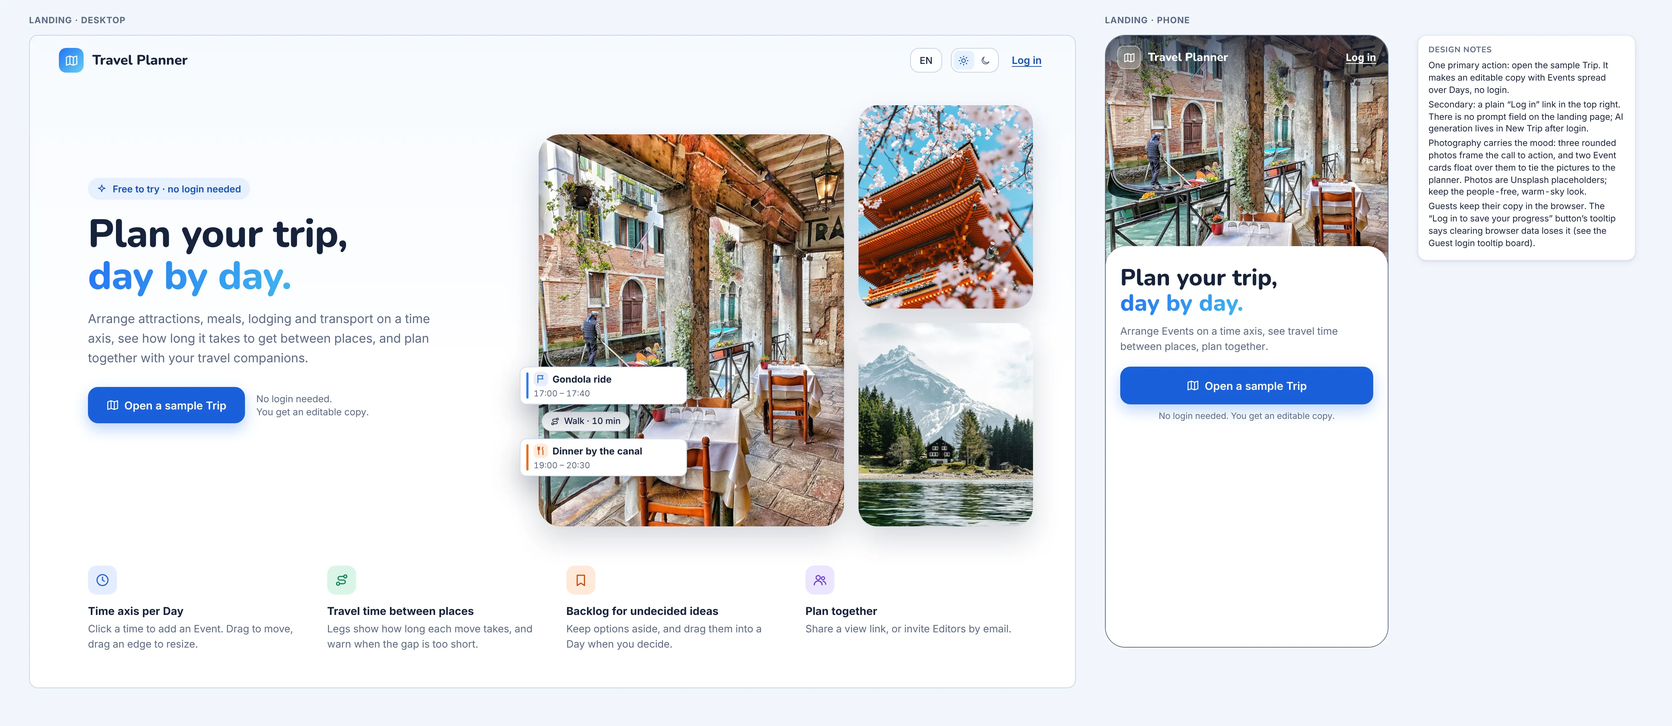
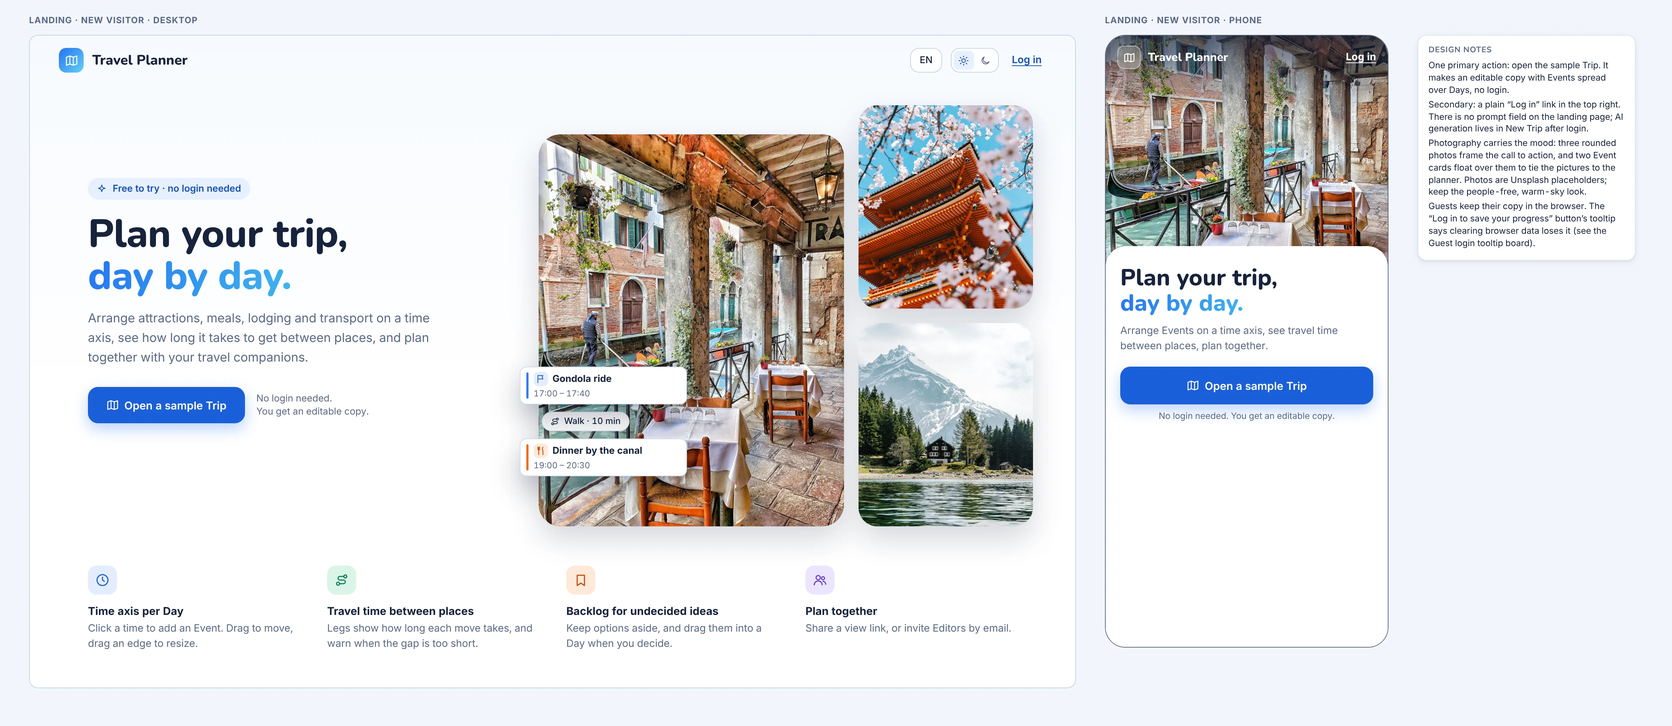
design: landing page variation by identity and trip existence (#16 to 16d)

diff --git a/docs/design/source/LandingGuestTrips.dc.html b/docs/design/source/LandingGuestTrips.dc.html
@@ -1,0 +1,60 @@
+<!doctype html>
+<html lang="en">
+<head>
+<meta charset="utf-8">
+<title>Landing page</title>
+<script src="./support.js"></script>
+<link rel="stylesheet" href="hf.css">
+</head>
+<body>
+<x-dc>
+<helmet>
+<link href="https://fonts.googleapis.com/css2?family=Inter:wght@400;500;600;700&amp;family=Nunito:wght@700;800&amp;family=Noto+Sans+TC:wght@400;500;700&amp;display=swap" rel="stylesheet">
+<style>
+body{margin:0}
+.wfroot{width:2300px;height:1000px;position:relative}
+.d{position:absolute;left:40px;top:48px;width:1440px;height:900px;border:1px solid var(--border2);border-radius:var(--r-lg);overflow:hidden}
+.phw{position:absolute;left:1520px;top:48px;width:390px;height:844px;border:1px solid var(--muted);border-radius:28px;overflow:hidden;background:#fff}
+.sidew{position:absolute;left:1950px;top:48px;width:300px}
+.or{display:flex;align-items:center;gap:10px;color:var(--muted)}
+.or::before,.or::after{content:"";flex:1;border-top:1px solid var(--border)}
+
+</style>
+</helmet>
+<div class="hf wfroot">
+<div class="cap" style="left:40px;top:20px">Landing · guest with Trips · desktop</div><div class="cap" style="left:1520px;top:20px">Landing · guest with Trips · phone</div>
+<section class="d" aria-label="Landing, desktop" style="background:linear-gradient(180deg,#f6faff 0%,#fff 55%)">
+<div style="position:absolute;left:0;right:0;top:0;height:68px;display:flex;align-items:center;gap:12px;padding:0 40px"><span class="logo" style="width:34px;height:34px;border-radius:10px;"><svg class="i" style="width:19px;height:19px" viewBox="0 0 24 24" aria-hidden="true"><path d="M9 4L3 6v14l6-2 6 2 6-2V4l-6 2z"></path><path d="M9 4v14M15 6v14"></path></svg></span><b style="font:800 19px Nunito,Inter,sans-serif">Travel Planner</b><span style="flex:1"></span><button class="btn" style="border-radius:12px;background:rgba(255,255,255,.7)">EN</button><span class="thsw" role="group" aria-label="Theme" style="border-radius:12px;background:rgba(255,255,255,.7)"><button class="on" aria-label="Light theme" aria-pressed="true"><svg class="i" viewBox="0 0 24 24" aria-hidden="true"><circle cx="12" cy="12" r="4"></circle><path d="M12 2v2M12 20v2M4.9 4.9l1.4 1.4M17.7 17.7l1.4 1.4M2 12h2M20 12h2M4.9 19.1l1.4-1.4M17.7 6.3l1.4-1.4"></path></svg></button><button aria-label="Dark theme" aria-pressed="false"><svg class="i" viewBox="0 0 24 24" aria-hidden="true"><path d="M20 14.5A8 8 0 1 1 9.5 4a6.5 6.5 0 0 0 10.5 10.5z"></path></svg></button></span><a href="#" style="font-weight:600;color:var(--pri-ink);padding:0 6px;font-size:14px;text-decoration:underline;text-underline-offset:3px">Log in</a></div><div style="position:absolute;left:80px;top:196px;width:560px">
+<span style="display:inline-flex;align-items:center;gap:8px;height:30px;padding:0 12px;border-radius:15px;background:var(--pri-tint);color:var(--pri-ink);font-size:13px;font-weight:600"><svg class="i" style="width:14px;height:14px" viewBox="0 0 24 24" aria-hidden="true"><path d="M12 3l2 6 6 2-6 2-2 6-2-6-6-2 6-2z"></path></svg>Welcome back</span>
+<h1 style="font:800 54px/1.08 Nunito,Inter,'Noto Sans TC',sans-serif;letter-spacing:-.01em;margin:18px 0 16px;color:var(--text)">Plan your trip,<br><span style="background:linear-gradient(120deg,#2373f4,#3fb6f0);-webkit-background-clip:text;background-clip:text;color:transparent">day by day.</span></h1>
+<p style="font-size:17px;line-height:1.6;color:var(--muted);margin:0 0 26px;max-width:500px">Arrange attractions, meals, lodging and transport on a time axis, see how long it takes to get between places, and plan together with your travel companions.</p>
+<div style="display:flex;align-items:center;gap:16px"><button class="btn pri" style="height:50px;font-size:15px;padding:0 24px;border-radius:14px;box-shadow:0 8px 20px rgba(35,115,244,.32)"><svg class="i" style="width:18px;height:18px" viewBox="0 0 24 24" aria-hidden="true"><path d="M9 4L3 6v14l6-2 6 2 6-2V4l-6 2z"></path><path d="M9 4v14M15 6v14"></path></svg>Continue</button><a href="#" style="font-weight:600;color:var(--pri-ink);font-size:14px;text-decoration:underline;text-underline-offset:3px">Open a sample Trip</a></div><div style="display:flex;align-items:center;gap:8px;margin-top:18px;color:var(--muted);font-size:13px"><svg class="i" style="width:15px;height:15px;flex:none" viewBox="0 0 24 24" aria-hidden="true"><circle cx="12" cy="12" r="9"></circle><path d="M12 11v5M12 8h.01"></path></svg>Your Trips are only saved in this browser.</div>
+</div>
+<div style="position:absolute;left:700px;top:96px;width:680px;height:600px">
+<img src="assets/venice.jpg" alt="" style="position:absolute;left:0px;top:40px;width:420px;height:540px;object-fit:cover;object-position:50% 60%;border-radius:30px;box-shadow:0 18px 40px rgba(22,34,59,.18);"><img src="assets/landing-top-right.jpg" alt="" style="position: absolute; left: 440px; top: 0px; width: 240px; height: 280px; object-fit: cover; border-radius: 26px; box-shadow: 0 18px 40px rgba(22,34,59,.18)"><img src="assets/swiss-lake.jpg" alt="" style="position:absolute;left:440px;top:300px;width:240px;height:280px;object-fit:cover;object-position:45% 50%;border-radius:26px;box-shadow:0 18px 40px rgba(22,34,59,.18);">
+<div style="position:absolute;left:-26px;top:360px;width:230px;display:flex;flex-direction:column;gap:10px"><div class="ev k-a" style="position:relative;left:auto;right:auto;min-height:0px;box-shadow:var(--sh-lift)"><span class="t"><svg class="i" viewBox="0 0 24 24" aria-hidden="true"><path d="M5 21V4"></path><path d="M5 4h12l-2 4 2 4H5"></path></svg><span>Gondola ride</span></span><span class="s">17:00 – 17:40</span></div><div style="padding-left:30px"><div style="display:inline-flex;align-items:center;gap:6px;background:#fff;border:1px solid var(--border);border-radius:999px;padding:4px 11px;font-size:12px;font-weight:500;box-shadow:0 4px 12px rgba(22,34,59,.12)"><svg class="i" style="width:13px;height:13px" viewBox="0 0 24 24" aria-hidden="true"><circle cx="6" cy="18" r="2.5"></circle><circle cx="18" cy="6" r="2.5"></circle><path d="M8.5 18H15a3 3 0 0 0 0-6H9a3 3 0 0 1 0-6h6.5"></path></svg>Walk · 10 min</div></div><div class="ev k-m" style="position:relative;left:auto;right:auto;min-height:0px;box-shadow:var(--sh-lift)"><span class="t"><svg class="i" viewBox="0 0 24 24" aria-hidden="true"><path d="M7 3v8M5 3v5a2 2 0 0 0 4 0V3M7 11v10M17 3c-2 2-2 6 0 8v10"></path></svg><span>Dinner by the canal</span></span><span class="s">19:00 – 20:30</span></div></div>
+<div style="position:absolute;left:300px;top:0;width:150px;height:150px;border-radius:50%;background:radial-gradient(circle,rgba(101,208,244,.35),transparent 70%);z-index:-1"></div>
+</div>
+<div style="position:absolute;left:80px;top:730px;width:1280px;display:flex;gap:36px"><div style="flex:1"><span style="width:40px;height:40px;border-radius:12px;background:var(--a-tint);color:var(--a-ink);display:flex;align-items:center;justify-content:center;margin-bottom:12px"><svg class="i" style="width:20px;height:20px" viewBox="0 0 24 24" aria-hidden="true"><circle cx="12" cy="12" r="9"></circle><path d="M12 7v5l3 2"></path></svg></span><b style="display:block;font-size:15px;margin-bottom:3px">Time axis per Day</b><span style="color:var(--muted);font-size:14px;line-height:1.5">Click a time to add an Event. Drag to move, drag an edge to resize.</span></div><div style="flex:1"><span style="width:40px;height:40px;border-radius:12px;background:var(--t-tint);color:var(--t-ink);display:flex;align-items:center;justify-content:center;margin-bottom:12px"><svg class="i" style="width:20px;height:20px" viewBox="0 0 24 24" aria-hidden="true"><circle cx="6" cy="18" r="2.5"></circle><circle cx="18" cy="6" r="2.5"></circle><path d="M8.5 18H15a3 3 0 0 0 0-6H9a3 3 0 0 1 0-6h6.5"></path></svg></span><b style="display:block;font-size:15px;margin-bottom:3px">Travel time between places</b><span style="color:var(--muted);font-size:14px;line-height:1.5">Legs show how long each move takes, and warn when the gap is too short.</span></div><div style="flex:1"><span style="width:40px;height:40px;border-radius:12px;background:var(--m-tint);color:var(--m-ink);display:flex;align-items:center;justify-content:center;margin-bottom:12px"><svg class="i" style="width:20px;height:20px" viewBox="0 0 24 24" aria-hidden="true"><path d="M6 4h12v17l-6-4-6 4z"></path></svg></span><b style="display:block;font-size:15px;margin-bottom:3px">Backlog for undecided ideas</b><span style="color:var(--muted);font-size:14px;line-height:1.5">Keep options aside, and drag them into a Day when you decide.</span></div><div style="flex:1"><span style="width:40px;height:40px;border-radius:12px;background:var(--l-tint);color:var(--l-ink);display:flex;align-items:center;justify-content:center;margin-bottom:12px"><svg class="i" style="width:20px;height:20px" viewBox="0 0 24 24" aria-hidden="true"><circle cx="9" cy="8" r="3.5"></circle><path d="M2.5 20a6.5 6.5 0 0 1 13 0"></path><circle cx="17" cy="9" r="2.5"></circle><path d="M17 14a5 5 0 0 1 4.5 5"></path></svg></span><b style="display:block;font-size:15px;margin-bottom:3px">Plan together</b><span style="color:var(--muted);font-size:14px;line-height:1.5">Share a view link, or invite Editors by email.</span></div></div>
+</section>
+<section class="phw" aria-label="Landing, phone">
+<img src="assets/venice.jpg" alt="" style="position:absolute;left:0px;top:0px;width:390px;height:330px;object-fit:cover;object-position:50% 55%;border-radius:0px;">
+<div style="position:absolute;left:0;top:0;width:390px;height:330px;background:linear-gradient(180deg,rgba(22,34,59,.7),transparent 32%,transparent 70%,rgba(255,255,255,.0))"></div>
+<div style="position:absolute;left:16px;right:16px;top:14px;display:flex;align-items:center;gap:10px;color:#fff"><span class="logo" style="width:32px;height:32px;border-radius:9px;background:rgba(255,255,255,.22);backdrop-filter:blur(6px);border:1px solid rgba(255,255,255,.5)"><svg class="i" style="width:17px;height:17px" viewBox="0 0 24 24" aria-hidden="true"><path d="M9 4L3 6v14l6-2 6 2 6-2V4l-6 2z"></path><path d="M9 4v14M15 6v14"></path></svg></span><b style="font:800 16px Nunito,Inter,sans-serif">Travel Planner</b><span style="flex:1"></span><a href="#" style="font-weight:700;color:#fff;font-size:14px;text-decoration:underline;text-underline-offset:3px">Log in</a></div>
+<div style="position:absolute;left:0;right:0;top:290px;height:554px;background:#fff;border-radius:28px 28px 0 0;padding:26px 20px 0">
+<h1 style="font:800 32px/1.1 Nunito,Inter,sans-serif;margin:0 0 10px">Plan your trip,<br><span style="background:linear-gradient(120deg,#2373f4,#3fb6f0);-webkit-background-clip:text;background-clip:text;color:transparent">day by day.</span></h1>
+<p style="color:var(--muted);line-height:1.5;margin:0 0 18px;font-size:14px">Arrange Events on a time axis, see travel time between places, plan together.</p>
+<button class="btn pri" style="width:100%;height:52px;justify-content:center;border-radius:14px;font-size:15px;box-shadow:0 8px 20px rgba(35,115,244,.3)"><svg class="i" style="width:18px;height:18px" viewBox="0 0 24 24" aria-hidden="true"><path d="M9 4L3 6v14l6-2 6 2 6-2V4l-6 2z"></path><path d="M9 4v14M15 6v14"></path></svg>Continue</button>
+<div style="text-align:center;margin-top:14px"><a href="#" style="font-weight:600;color:var(--pri-ink);font-size:14px;text-decoration:underline;text-underline-offset:3px">Open a sample Trip</a></div>
+<div class="muted" style="text-align:center;font-size:12px;margin-top:10px">Your Trips are only saved in this browser.</div>
+</div></section>
+<aside class="mc sidew"><h4>Notes for review · guest with Trips</h4><div>The guest has no login but already has a Trip in this browser (a guest id exists). Primary action becomes “Continue”, which opens the most recently opened Trip.</div><div>Secondary: “Open a sample Trip” as a text link. If the sample copy already exists, it opens that copy instead of making another (<code>trips.sampleOf</code> plus a unique index on <code>(ownerId, sampleOf)</code>).</div><div>The small line under the actions says Trips live only in this browser. “Log in” stays in the top right.</div><div>Photography carries the mood: three rounded photos frame the call to action, and two Event cards float over them to tie the pictures to the planner. Photos are Unsplash placeholders; keep the people-free, warm-sky look.</div><div>Guests keep their copy in the browser. The “Log in to save your progress” button’s tooltip says clearing browser data loses it (see the Guest login tooltip board).</div></aside>
+</div>
+</x-dc>
+<script type="text/x-dc" data-dc-script data-props='{"$preview":{"width":2300,"height":1000}}'>
+class Component extends DCLogic {
+  renderVals() { return {}; }
+}
+</script>
+</body>
+</html>

diff --git a/docs/design/source/LandingLoggedIn.dc.html b/docs/design/source/LandingLoggedIn.dc.html
@@ -1,0 +1,60 @@
+<!doctype html>
+<html lang="en">
+<head>
+<meta charset="utf-8">
+<title>Landing page</title>
+<script src="./support.js"></script>
+<link rel="stylesheet" href="hf.css">
+</head>
+<body>
+<x-dc>
+<helmet>
+<link href="https://fonts.googleapis.com/css2?family=Inter:wght@400;500;600;700&amp;family=Nunito:wght@700;800&amp;family=Noto+Sans+TC:wght@400;500;700&amp;display=swap" rel="stylesheet">
+<style>
+body{margin:0}
+.acct{width:36px;height:36px;border-radius:50%;background:var(--a-tint);color:var(--a-ink);display:inline-flex;align-items:center;justify-content:center;font-weight:700;font-size:14px;border:1px solid var(--border2);flex:none;padding:0}
+.wfroot{width:2300px;height:1000px;position:relative}
+.d{position:absolute;left:40px;top:48px;width:1440px;height:900px;border:1px solid var(--border2);border-radius:var(--r-lg);overflow:hidden}
+.phw{position:absolute;left:1520px;top:48px;width:390px;height:844px;border:1px solid var(--muted);border-radius:28px;overflow:hidden;background:#fff}
+.sidew{position:absolute;left:1950px;top:48px;width:300px}
+.or{display:flex;align-items:center;gap:10px;color:var(--muted)}
+.or::before,.or::after{content:"";flex:1;border-top:1px solid var(--border)}
+
+</style>
+</helmet>
+<div class="hf wfroot">
+<div class="cap" style="left:40px;top:20px">Landing · logged in · desktop</div><div class="cap" style="left:1520px;top:20px">Landing · logged in · phone</div>
+<section class="d" aria-label="Landing, desktop" style="background:linear-gradient(180deg,#f6faff 0%,#fff 55%)">
+<div style="position:absolute;left:0;right:0;top:0;height:68px;display:flex;align-items:center;gap:12px;padding:0 40px"><span class="logo" style="width:34px;height:34px;border-radius:10px;"><svg class="i" style="width:19px;height:19px" viewBox="0 0 24 24" aria-hidden="true"><path d="M9 4L3 6v14l6-2 6 2 6-2V4l-6 2z"></path><path d="M9 4v14M15 6v14"></path></svg></span><b style="font:800 19px Nunito,Inter,sans-serif">Travel Planner</b><span style="flex:1"></span><button class="btn" style="border-radius:12px;background:rgba(255,255,255,.7)">EN</button><span class="thsw" role="group" aria-label="Theme" style="border-radius:12px;background:rgba(255,255,255,.7)"><button class="on" aria-label="Light theme" aria-pressed="true"><svg class="i" viewBox="0 0 24 24" aria-hidden="true"><circle cx="12" cy="12" r="4"></circle><path d="M12 2v2M12 20v2M4.9 4.9l1.4 1.4M17.7 17.7l1.4 1.4M2 12h2M20 12h2M4.9 19.1l1.4-1.4M17.7 6.3l1.4-1.4"></path></svg></button><button aria-label="Dark theme" aria-pressed="false"><svg class="i" viewBox="0 0 24 24" aria-hidden="true"><path d="M20 14.5A8 8 0 1 1 9.5 4a6.5 6.5 0 0 0 10.5 10.5z"></path></svg></button></span><button class="acct" aria-haspopup="menu" aria-expanded="false" aria-label="Account menu, lena@example.com" style="margin-left:4px">L</button></div><div style="position:absolute;left:80px;top:196px;width:560px">
+<span style="display:inline-flex;align-items:center;gap:8px;height:30px;padding:0 12px;border-radius:15px;background:var(--pri-tint);color:var(--pri-ink);font-size:13px;font-weight:600"><svg class="i" style="width:14px;height:14px" viewBox="0 0 24 24" aria-hidden="true"><path d="M12 3l2 6 6 2-6 2-2 6-2-6-6-2 6-2z"></path></svg>Welcome back</span>
+<h1 style="font:800 54px/1.08 Nunito,Inter,'Noto Sans TC',sans-serif;letter-spacing:-.01em;margin:18px 0 16px;color:var(--text)">Plan your trip,<br><span style="background:linear-gradient(120deg,#2373f4,#3fb6f0);-webkit-background-clip:text;background-clip:text;color:transparent">day by day.</span></h1>
+<p style="font-size:17px;line-height:1.6;color:var(--muted);margin:0 0 26px;max-width:500px">Arrange attractions, meals, lodging and transport on a time axis, see how long it takes to get between places, and plan together with your travel companions.</p>
+<div style="display:flex;align-items:center;gap:16px"><button class="btn pri" style="height:50px;font-size:15px;padding:0 24px;border-radius:14px;box-shadow:0 8px 20px rgba(35,115,244,.32)"><svg class="i" style="width:18px;height:18px" viewBox="0 0 24 24" aria-hidden="true"><path d="M9 4L3 6v14l6-2 6 2 6-2V4l-6 2z"></path><path d="M9 4v14M15 6v14"></path></svg>Continue</button><a href="#" style="font-weight:600;color:var(--pri-ink);font-size:14px;text-decoration:underline;text-underline-offset:3px">Open a sample Trip</a></div>
+</div>
+<div style="position:absolute;left:700px;top:96px;width:680px;height:600px">
+<img src="assets/venice.jpg" alt="" style="position:absolute;left:0px;top:40px;width:420px;height:540px;object-fit:cover;object-position:50% 60%;border-radius:30px;box-shadow:0 18px 40px rgba(22,34,59,.18);"><img src="assets/landing-top-right.jpg" alt="" style="position: absolute; left: 440px; top: 0px; width: 240px; height: 280px; object-fit: cover; border-radius: 26px; box-shadow: 0 18px 40px rgba(22,34,59,.18)"><img src="assets/swiss-lake.jpg" alt="" style="position:absolute;left:440px;top:300px;width:240px;height:280px;object-fit:cover;object-position:45% 50%;border-radius:26px;box-shadow:0 18px 40px rgba(22,34,59,.18);">
+<div style="position:absolute;left:-26px;top:360px;width:230px;display:flex;flex-direction:column;gap:10px"><div class="ev k-a" style="position:relative;left:auto;right:auto;min-height:0px;box-shadow:var(--sh-lift)"><span class="t"><svg class="i" viewBox="0 0 24 24" aria-hidden="true"><path d="M5 21V4"></path><path d="M5 4h12l-2 4 2 4H5"></path></svg><span>Gondola ride</span></span><span class="s">17:00 – 17:40</span></div><div style="padding-left:30px"><div style="display:inline-flex;align-items:center;gap:6px;background:#fff;border:1px solid var(--border);border-radius:999px;padding:4px 11px;font-size:12px;font-weight:500;box-shadow:0 4px 12px rgba(22,34,59,.12)"><svg class="i" style="width:13px;height:13px" viewBox="0 0 24 24" aria-hidden="true"><circle cx="6" cy="18" r="2.5"></circle><circle cx="18" cy="6" r="2.5"></circle><path d="M8.5 18H15a3 3 0 0 0 0-6H9a3 3 0 0 1 0-6h6.5"></path></svg>Walk · 10 min</div></div><div class="ev k-m" style="position:relative;left:auto;right:auto;min-height:0px;box-shadow:var(--sh-lift)"><span class="t"><svg class="i" viewBox="0 0 24 24" aria-hidden="true"><path d="M7 3v8M5 3v5a2 2 0 0 0 4 0V3M7 11v10M17 3c-2 2-2 6 0 8v10"></path></svg><span>Dinner by the canal</span></span><span class="s">19:00 – 20:30</span></div></div>
+<div style="position:absolute;left:300px;top:0;width:150px;height:150px;border-radius:50%;background:radial-gradient(circle,rgba(101,208,244,.35),transparent 70%);z-index:-1"></div>
+</div>
+<div style="position:absolute;left:80px;top:730px;width:1280px;display:flex;gap:36px"><div style="flex:1"><span style="width:40px;height:40px;border-radius:12px;background:var(--a-tint);color:var(--a-ink);display:flex;align-items:center;justify-content:center;margin-bottom:12px"><svg class="i" style="width:20px;height:20px" viewBox="0 0 24 24" aria-hidden="true"><circle cx="12" cy="12" r="9"></circle><path d="M12 7v5l3 2"></path></svg></span><b style="display:block;font-size:15px;margin-bottom:3px">Time axis per Day</b><span style="color:var(--muted);font-size:14px;line-height:1.5">Click a time to add an Event. Drag to move, drag an edge to resize.</span></div><div style="flex:1"><span style="width:40px;height:40px;border-radius:12px;background:var(--t-tint);color:var(--t-ink);display:flex;align-items:center;justify-content:center;margin-bottom:12px"><svg class="i" style="width:20px;height:20px" viewBox="0 0 24 24" aria-hidden="true"><circle cx="6" cy="18" r="2.5"></circle><circle cx="18" cy="6" r="2.5"></circle><path d="M8.5 18H15a3 3 0 0 0 0-6H9a3 3 0 0 1 0-6h6.5"></path></svg></span><b style="display:block;font-size:15px;margin-bottom:3px">Travel time between places</b><span style="color:var(--muted);font-size:14px;line-height:1.5">Legs show how long each move takes, and warn when the gap is too short.</span></div><div style="flex:1"><span style="width:40px;height:40px;border-radius:12px;background:var(--m-tint);color:var(--m-ink);display:flex;align-items:center;justify-content:center;margin-bottom:12px"><svg class="i" style="width:20px;height:20px" viewBox="0 0 24 24" aria-hidden="true"><path d="M6 4h12v17l-6-4-6 4z"></path></svg></span><b style="display:block;font-size:15px;margin-bottom:3px">Backlog for undecided ideas</b><span style="color:var(--muted);font-size:14px;line-height:1.5">Keep options aside, and drag them into a Day when you decide.</span></div><div style="flex:1"><span style="width:40px;height:40px;border-radius:12px;background:var(--l-tint);color:var(--l-ink);display:flex;align-items:center;justify-content:center;margin-bottom:12px"><svg class="i" style="width:20px;height:20px" viewBox="0 0 24 24" aria-hidden="true"><circle cx="9" cy="8" r="3.5"></circle><path d="M2.5 20a6.5 6.5 0 0 1 13 0"></path><circle cx="17" cy="9" r="2.5"></circle><path d="M17 14a5 5 0 0 1 4.5 5"></path></svg></span><b style="display:block;font-size:15px;margin-bottom:3px">Plan together</b><span style="color:var(--muted);font-size:14px;line-height:1.5">Share a view link, or invite Editors by email.</span></div></div>
+</section>
+<section class="phw" aria-label="Landing, phone">
+<img src="assets/venice.jpg" alt="" style="position:absolute;left:0px;top:0px;width:390px;height:330px;object-fit:cover;object-position:50% 55%;border-radius:0px;">
+<div style="position:absolute;left:0;top:0;width:390px;height:330px;background:linear-gradient(180deg,rgba(22,34,59,.7),transparent 32%,transparent 70%,rgba(255,255,255,.0))"></div>
+<div style="position:absolute;left:16px;right:16px;top:14px;display:flex;align-items:center;gap:10px;color:#fff"><span class="logo" style="width:32px;height:32px;border-radius:9px;background:rgba(255,255,255,.22);backdrop-filter:blur(6px);border:1px solid rgba(255,255,255,.5)"><svg class="i" style="width:17px;height:17px" viewBox="0 0 24 24" aria-hidden="true"><path d="M9 4L3 6v14l6-2 6 2 6-2V4l-6 2z"></path><path d="M9 4v14M15 6v14"></path></svg></span><b style="font:800 16px Nunito,Inter,sans-serif">Travel Planner</b><span style="flex:1"></span><button class="acct" aria-haspopup="menu" aria-expanded="false" aria-label="Account menu, lena@example.com" style="width:34px;height:34px;background:rgba(255,255,255,.92);border-color:rgba(255,255,255,.6)">L</button></div>
+<div style="position:absolute;left:0;right:0;top:290px;height:554px;background:#fff;border-radius:28px 28px 0 0;padding:26px 20px 0">
+<h1 style="font:800 32px/1.1 Nunito,Inter,sans-serif;margin:0 0 10px">Plan your trip,<br><span style="background:linear-gradient(120deg,#2373f4,#3fb6f0);-webkit-background-clip:text;background-clip:text;color:transparent">day by day.</span></h1>
+<p style="color:var(--muted);line-height:1.5;margin:0 0 18px;font-size:14px">Arrange Events on a time axis, see travel time between places, plan together.</p>
+<button class="btn pri" style="width:100%;height:52px;justify-content:center;border-radius:14px;font-size:15px;box-shadow:0 8px 20px rgba(35,115,244,.3)"><svg class="i" style="width:18px;height:18px" viewBox="0 0 24 24" aria-hidden="true"><path d="M9 4L3 6v14l6-2 6 2 6-2V4l-6 2z"></path><path d="M9 4v14M15 6v14"></path></svg>Continue</button>
+<div style="text-align:center;margin-top:14px"><a href="#" style="font-weight:600;color:var(--pri-ink);font-size:14px;text-decoration:underline;text-underline-offset:3px">Open a sample Trip</a></div>
+</div></section>
+<aside class="mc sidew"><h4>Notes for review · logged in</h4><div>Logged in with at least one Trip. Primary action is “Continue”, which opens the most recently opened Trip.</div><div>Secondary: “Open a sample Trip” as a text link. If the sample copy already exists, it opens that copy (<code>trips.sampleOf</code> plus a unique index on <code>(ownerId, sampleOf)</code>).</div><div>The “Log in” link is replaced by the avatar (Account menu) in the top right. No “only saved in this browser” line: Trips are saved to the account.</div><div>Photography carries the mood: three rounded photos frame the call to action, and two Event cards float over them to tie the pictures to the planner. Photos are Unsplash placeholders; keep the people-free, warm-sky look.</div></aside>
+</div>
+</x-dc>
+<script type="text/x-dc" data-dc-script data-props='{"$preview":{"width":2300,"height":1000}}'>
+class Component extends DCLogic {
+  renderVals() { return {}; }
+}
+</script>
+</body>
+</html>

diff --git a/docs/design/source/LandingLoggedInEmpty.dc.html b/docs/design/source/LandingLoggedInEmpty.dc.html
@@ -1,0 +1,60 @@
+<!doctype html>
+<html lang="en">
+<head>
+<meta charset="utf-8">
+<title>Landing page</title>
+<script src="./support.js"></script>
+<link rel="stylesheet" href="hf.css">
+</head>
+<body>
+<x-dc>
+<helmet>
+<link href="https://fonts.googleapis.com/css2?family=Inter:wght@400;500;600;700&amp;family=Nunito:wght@700;800&amp;family=Noto+Sans+TC:wght@400;500;700&amp;display=swap" rel="stylesheet">
+<style>
+body{margin:0}
+.acct{width:36px;height:36px;border-radius:50%;background:var(--a-tint);color:var(--a-ink);display:inline-flex;align-items:center;justify-content:center;font-weight:700;font-size:14px;border:1px solid var(--border2);flex:none;padding:0}
+.wfroot{width:2300px;height:1000px;position:relative}
+.d{position:absolute;left:40px;top:48px;width:1440px;height:900px;border:1px solid var(--border2);border-radius:var(--r-lg);overflow:hidden}
+.phw{position:absolute;left:1520px;top:48px;width:390px;height:844px;border:1px solid var(--muted);border-radius:28px;overflow:hidden;background:#fff}
+.sidew{position:absolute;left:1950px;top:48px;width:300px}
+.or{display:flex;align-items:center;gap:10px;color:var(--muted)}
+.or::before,.or::after{content:"";flex:1;border-top:1px solid var(--border)}
+
+</style>
+</helmet>
+<div class="hf wfroot">
+<div class="cap" style="left:40px;top:20px">Landing · logged in, no Trips · desktop</div><div class="cap" style="left:1520px;top:20px">Landing · logged in, no Trips · phone</div>
+<section class="d" aria-label="Landing, desktop" style="background:linear-gradient(180deg,#f6faff 0%,#fff 55%)">
+<div style="position:absolute;left:0;right:0;top:0;height:68px;display:flex;align-items:center;gap:12px;padding:0 40px"><span class="logo" style="width:34px;height:34px;border-radius:10px;"><svg class="i" style="width:19px;height:19px" viewBox="0 0 24 24" aria-hidden="true"><path d="M9 4L3 6v14l6-2 6 2 6-2V4l-6 2z"></path><path d="M9 4v14M15 6v14"></path></svg></span><b style="font:800 19px Nunito,Inter,sans-serif">Travel Planner</b><span style="flex:1"></span><button class="btn" style="border-radius:12px;background:rgba(255,255,255,.7)">EN</button><span class="thsw" role="group" aria-label="Theme" style="border-radius:12px;background:rgba(255,255,255,.7)"><button class="on" aria-label="Light theme" aria-pressed="true"><svg class="i" viewBox="0 0 24 24" aria-hidden="true"><circle cx="12" cy="12" r="4"></circle><path d="M12 2v2M12 20v2M4.9 4.9l1.4 1.4M17.7 17.7l1.4 1.4M2 12h2M20 12h2M4.9 19.1l1.4-1.4M17.7 6.3l1.4-1.4"></path></svg></button><button aria-label="Dark theme" aria-pressed="false"><svg class="i" viewBox="0 0 24 24" aria-hidden="true"><path d="M20 14.5A8 8 0 1 1 9.5 4a6.5 6.5 0 0 0 10.5 10.5z"></path></svg></button></span><button class="acct" aria-haspopup="menu" aria-expanded="false" aria-label="Account menu, lena@example.com" style="margin-left:4px">L</button></div><div style="position:absolute;left:80px;top:196px;width:560px">
+<span style="display:inline-flex;align-items:center;gap:8px;height:30px;padding:0 12px;border-radius:15px;background:var(--pri-tint);color:var(--pri-ink);font-size:13px;font-weight:600"><svg class="i" style="width:14px;height:14px" viewBox="0 0 24 24" aria-hidden="true"><path d="M12 3l2 6 6 2-6 2-2 6-2-6-6-2 6-2z"></path></svg>Start with a sample</span>
+<h1 style="font:800 54px/1.08 Nunito,Inter,'Noto Sans TC',sans-serif;letter-spacing:-.01em;margin:18px 0 16px;color:var(--text)">Plan your trip,<br><span style="background:linear-gradient(120deg,#2373f4,#3fb6f0);-webkit-background-clip:text;background-clip:text;color:transparent">day by day.</span></h1>
+<p style="font-size:17px;line-height:1.6;color:var(--muted);margin:0 0 26px;max-width:500px">Arrange attractions, meals, lodging and transport on a time axis, see how long it takes to get between places, and plan together with your travel companions.</p>
+<div style="display:flex;align-items:center;gap:16px"><button class="btn pri" style="height:50px;font-size:15px;padding:0 24px;border-radius:14px;box-shadow:0 8px 20px rgba(35,115,244,.32)"><svg class="i" style="width:18px;height:18px" viewBox="0 0 24 24" aria-hidden="true"><path d="M9 4L3 6v14l6-2 6 2 6-2V4l-6 2z"></path><path d="M9 4v14M15 6v14"></path></svg>Open a sample Trip</button><span style="color:var(--muted);font-size:13px">You get an editable copy<br>in your Trips.</span></div>
+</div>
+<div style="position:absolute;left:700px;top:96px;width:680px;height:600px">
+<img src="assets/venice.jpg" alt="" style="position:absolute;left:0px;top:40px;width:420px;height:540px;object-fit:cover;object-position:50% 60%;border-radius:30px;box-shadow:0 18px 40px rgba(22,34,59,.18);"><img src="assets/landing-top-right.jpg" alt="" style="position: absolute; left: 440px; top: 0px; width: 240px; height: 280px; object-fit: cover; border-radius: 26px; box-shadow: 0 18px 40px rgba(22,34,59,.18)"><img src="assets/swiss-lake.jpg" alt="" style="position:absolute;left:440px;top:300px;width:240px;height:280px;object-fit:cover;object-position:45% 50%;border-radius:26px;box-shadow:0 18px 40px rgba(22,34,59,.18);">
+<div style="position:absolute;left:-26px;top:360px;width:230px;display:flex;flex-direction:column;gap:10px"><div class="ev k-a" style="position:relative;left:auto;right:auto;min-height:0px;box-shadow:var(--sh-lift)"><span class="t"><svg class="i" viewBox="0 0 24 24" aria-hidden="true"><path d="M5 21V4"></path><path d="M5 4h12l-2 4 2 4H5"></path></svg><span>Gondola ride</span></span><span class="s">17:00 – 17:40</span></div><div style="padding-left:30px"><div style="display:inline-flex;align-items:center;gap:6px;background:#fff;border:1px solid var(--border);border-radius:999px;padding:4px 11px;font-size:12px;font-weight:500;box-shadow:0 4px 12px rgba(22,34,59,.12)"><svg class="i" style="width:13px;height:13px" viewBox="0 0 24 24" aria-hidden="true"><circle cx="6" cy="18" r="2.5"></circle><circle cx="18" cy="6" r="2.5"></circle><path d="M8.5 18H15a3 3 0 0 0 0-6H9a3 3 0 0 1 0-6h6.5"></path></svg>Walk · 10 min</div></div><div class="ev k-m" style="position:relative;left:auto;right:auto;min-height:0px;box-shadow:var(--sh-lift)"><span class="t"><svg class="i" viewBox="0 0 24 24" aria-hidden="true"><path d="M7 3v8M5 3v5a2 2 0 0 0 4 0V3M7 11v10M17 3c-2 2-2 6 0 8v10"></path></svg><span>Dinner by the canal</span></span><span class="s">19:00 – 20:30</span></div></div>
+<div style="position:absolute;left:300px;top:0;width:150px;height:150px;border-radius:50%;background:radial-gradient(circle,rgba(101,208,244,.35),transparent 70%);z-index:-1"></div>
+</div>
+<div style="position:absolute;left:80px;top:730px;width:1280px;display:flex;gap:36px"><div style="flex:1"><span style="width:40px;height:40px;border-radius:12px;background:var(--a-tint);color:var(--a-ink);display:flex;align-items:center;justify-content:center;margin-bottom:12px"><svg class="i" style="width:20px;height:20px" viewBox="0 0 24 24" aria-hidden="true"><circle cx="12" cy="12" r="9"></circle><path d="M12 7v5l3 2"></path></svg></span><b style="display:block;font-size:15px;margin-bottom:3px">Time axis per Day</b><span style="color:var(--muted);font-size:14px;line-height:1.5">Click a time to add an Event. Drag to move, drag an edge to resize.</span></div><div style="flex:1"><span style="width:40px;height:40px;border-radius:12px;background:var(--t-tint);color:var(--t-ink);display:flex;align-items:center;justify-content:center;margin-bottom:12px"><svg class="i" style="width:20px;height:20px" viewBox="0 0 24 24" aria-hidden="true"><circle cx="6" cy="18" r="2.5"></circle><circle cx="18" cy="6" r="2.5"></circle><path d="M8.5 18H15a3 3 0 0 0 0-6H9a3 3 0 0 1 0-6h6.5"></path></svg></span><b style="display:block;font-size:15px;margin-bottom:3px">Travel time between places</b><span style="color:var(--muted);font-size:14px;line-height:1.5">Legs show how long each move takes, and warn when the gap is too short.</span></div><div style="flex:1"><span style="width:40px;height:40px;border-radius:12px;background:var(--m-tint);color:var(--m-ink);display:flex;align-items:center;justify-content:center;margin-bottom:12px"><svg class="i" style="width:20px;height:20px" viewBox="0 0 24 24" aria-hidden="true"><path d="M6 4h12v17l-6-4-6 4z"></path></svg></span><b style="display:block;font-size:15px;margin-bottom:3px">Backlog for undecided ideas</b><span style="color:var(--muted);font-size:14px;line-height:1.5">Keep options aside, and drag them into a Day when you decide.</span></div><div style="flex:1"><span style="width:40px;height:40px;border-radius:12px;background:var(--l-tint);color:var(--l-ink);display:flex;align-items:center;justify-content:center;margin-bottom:12px"><svg class="i" style="width:20px;height:20px" viewBox="0 0 24 24" aria-hidden="true"><circle cx="9" cy="8" r="3.5"></circle><path d="M2.5 20a6.5 6.5 0 0 1 13 0"></path><circle cx="17" cy="9" r="2.5"></circle><path d="M17 14a5 5 0 0 1 4.5 5"></path></svg></span><b style="display:block;font-size:15px;margin-bottom:3px">Plan together</b><span style="color:var(--muted);font-size:14px;line-height:1.5">Share a view link, or invite Editors by email.</span></div></div>
+</section>
+<section class="phw" aria-label="Landing, phone">
+<img src="assets/venice.jpg" alt="" style="position:absolute;left:0px;top:0px;width:390px;height:330px;object-fit:cover;object-position:50% 55%;border-radius:0px;">
+<div style="position:absolute;left:0;top:0;width:390px;height:330px;background:linear-gradient(180deg,rgba(22,34,59,.7),transparent 32%,transparent 70%,rgba(255,255,255,.0))"></div>
+<div style="position:absolute;left:16px;right:16px;top:14px;display:flex;align-items:center;gap:10px;color:#fff"><span class="logo" style="width:32px;height:32px;border-radius:9px;background:rgba(255,255,255,.22);backdrop-filter:blur(6px);border:1px solid rgba(255,255,255,.5)"><svg class="i" style="width:17px;height:17px" viewBox="0 0 24 24" aria-hidden="true"><path d="M9 4L3 6v14l6-2 6 2 6-2V4l-6 2z"></path><path d="M9 4v14M15 6v14"></path></svg></span><b style="font:800 16px Nunito,Inter,sans-serif">Travel Planner</b><span style="flex:1"></span><button class="acct" aria-haspopup="menu" aria-expanded="false" aria-label="Account menu, lena@example.com" style="width:34px;height:34px;background:rgba(255,255,255,.92);border-color:rgba(255,255,255,.6)">L</button></div>
+<div style="position:absolute;left:0;right:0;top:290px;height:554px;background:#fff;border-radius:28px 28px 0 0;padding:26px 20px 0">
+<h1 style="font:800 32px/1.1 Nunito,Inter,sans-serif;margin:0 0 10px">Plan your trip,<br><span style="background:linear-gradient(120deg,#2373f4,#3fb6f0);-webkit-background-clip:text;background-clip:text;color:transparent">day by day.</span></h1>
+<p style="color:var(--muted);line-height:1.5;margin:0 0 18px;font-size:14px">Arrange Events on a time axis, see travel time between places, plan together.</p>
+<button class="btn pri" style="width:100%;height:52px;justify-content:center;border-radius:14px;font-size:15px;box-shadow:0 8px 20px rgba(35,115,244,.3)"><svg class="i" style="width:18px;height:18px" viewBox="0 0 24 24" aria-hidden="true"><path d="M9 4L3 6v14l6-2 6 2 6-2V4l-6 2z"></path><path d="M9 4v14M15 6v14"></path></svg>Open a sample Trip</button>
+<div class="muted" style="text-align:center;font-size:12px;margin-top:8px">You get an editable copy in your Trips.</div>
+</div></section>
+<aside class="mc sidew"><h4>Notes for review · logged in, no Trips</h4><div>Logged in but the account has no Trip yet, so there is nothing to continue. Same layout as a new visitor: one primary action, “Open a sample Trip”, and no secondary action.</div><div>Only the top right changes: the avatar (Account menu) replaces “Log in”, and the helper text no longer says “no login needed”.</div><div>If the sample copy already exists in the account (for example the Trip list was emptied after opening it), it opens that copy (<code>trips.sampleOf</code> plus a unique index on <code>(ownerId, sampleOf)</code>).</div><div>Photography carries the mood: three rounded photos frame the call to action, and two Event cards float over them to tie the pictures to the planner. Photos are Unsplash placeholders; keep the people-free, warm-sky look.</div></aside>
+</div>
+</x-dc>
+<script type="text/x-dc" data-dc-script data-props='{"$preview":{"width":2300,"height":1000}}'>
+class Component extends DCLogic {
+  renderVals() { return {}; }
+}
+</script>
+</body>
+</html>

diff --git a/docs/design/source/Landing.dc.html b/docs/design/source/Landing.dc.html
@@ -22,7 +22,7 @@ body{margin:0}
 </style>
 </helmet>
 <div class="hf wfroot">
-<div class="cap" style="left:40px;top:20px">Landing · desktop</div><div class="cap" style="left:1520px;top:20px">Landing · phone</div>
+<div class="cap" style="left:40px;top:20px">Landing · new visitor · desktop</div><div class="cap" style="left:1520px;top:20px">Landing · new visitor · phone</div>
 <section class="d" aria-label="Landing, desktop" style="background:linear-gradient(180deg,#f6faff 0%,#fff 55%)">
 <div style="position:absolute;left:0;right:0;top:0;height:68px;display:flex;align-items:center;gap:12px;padding:0 40px"><span class="logo" style="width:34px;height:34px;border-radius:10px;"><svg class="i" style="width:19px;height:19px" viewBox="0 0 24 24" aria-hidden="true"><path d="M9 4L3 6v14l6-2 6 2 6-2V4l-6 2z"></path><path d="M9 4v14M15 6v14"></path></svg></span><b style="font:800 19px Nunito,Inter,sans-serif">Travel Planner</b><span style="flex:1"></span><button class="btn" style="border-radius:12px;background:rgba(255,255,255,.7)">EN</button><span class="thsw" role="group" aria-label="Theme" style="border-radius:12px;background:rgba(255,255,255,.7)"><button class="on" aria-label="Light theme" aria-pressed="true"><svg class="i" viewBox="0 0 24 24" aria-hidden="true"><circle cx="12" cy="12" r="4"></circle><path d="M12 2v2M12 20v2M4.9 4.9l1.4 1.4M17.7 17.7l1.4 1.4M2 12h2M20 12h2M4.9 19.1l1.4-1.4M17.7 6.3l1.4-1.4"></path></svg></button><button aria-label="Dark theme" aria-pressed="false"><svg class="i" viewBox="0 0 24 24" aria-hidden="true"><path d="M20 14.5A8 8 0 1 1 9.5 4a6.5 6.5 0 0 0 10.5 10.5z"></path></svg></button></span><a href="#" style="font-weight:600;color:var(--pri-ink);padding:0 6px;font-size:14px;text-decoration:underline;text-underline-offset:3px">Log in</a></div><div style="position:absolute;left:80px;top:196px;width:560px">
 <span style="display:inline-flex;align-items:center;gap:8px;height:30px;padding:0 12px;border-radius:15px;background:var(--pri-tint);color:var(--pri-ink);font-size:13px;font-weight:600"><svg class="i" style="width:14px;height:14px" viewBox="0 0 24 24" aria-hidden="true"><path d="M12 3l2 6 6 2-6 2-2 6-2-6-6-2 6-2z"></path></svg>Free to try · no login needed</span>

diff --git a/docs/design/README.md b/docs/design/README.md
@@ -22,7 +22,7 @@ design/
 
 ## Images
 
-All images in `png/` are exported at **2x** (twice the CSS pixel width and height). Divide pixel measurements by 2 to get CSS pixels. `16-landing`, `26-event-image`, `36-login-hosted`, `39-logout` and `41-invite-editor` are WebP instead of PNG to keep the repo small because they contain large photos. Screen sizes in the table below are in CSS pixels.
+All images in `png/` are exported at **2x** (twice the CSS pixel width and height). Divide pixel measurements by 2 to get CSS pixels. `16-landing`, `16b`, `16c`, `16d`, `26-event-image`, `36-login-hosted`, `39-logout` and `41-invite-editor` are WebP instead of PNG to keep the repo small because they contain large photos. Screen sizes in the table below are in CSS pixels.
 
 ## Reading values from the source
 
@@ -51,7 +51,10 @@ All images in `png/` are exported at **2x** (twice the CSS pixel width and heigh
 | 13 | `png/13-day-delete.png` | `source/DayDelete.dc.html` | 1440x900 | Delete Day — confirmation and undo toast |
 | 14 | `png/14-day-menu-phone.png` | `source/DayMenuPhone.dc.html` | 1330x930 | Day menu and delete confirmation — phone |
 | 15 | `png/15-day-swap-lodging.png` | `source/DaySwapLodging.dc.html` | 1440x940 | Swapping two Days — the 3-night stay stays in place |
-| 16 | `png/16-landing.webp` | `source/Landing.dc.html` | 2300x1000 | Landing — desktop and phone |
+| 16 | `png/16-landing.webp` | `source/Landing.dc.html` | 2300x1000 | Landing — new visitor, desktop and phone |
+| 16b | `png/16b-landing-guest-trips.webp` | `source/LandingGuestTrips.dc.html` | 2300x1000 | Landing — guest with Trips (Continue + Open a sample Trip link + “only saved in this browser”) |
+| 16c | `png/16c-landing-logged-in.webp` | `source/LandingLoggedIn.dc.html` | 2300x1000 | Landing — logged in with Trips (Continue + Open a sample Trip link, avatar top right) |
+| 16d | `png/16d-landing-logged-in-empty.webp` | `source/LandingLoggedInEmpty.dc.html` | 2300x1000 | Landing — logged in, no Trips (Open a sample Trip only, avatar top right) |
 | 17 | `png/17-notes-panel.png` | `source/NotesPanel.dc.html` | 3040x1200 | Notes panel — open on Schedule and Map, movable, states, phone sheet |
 | 18 | `png/18-viewer-mode.png` | `source/Viewer.dc.html` | 2040x900 | Viewer mode — read-only workspace and Event details |
 | 19 | `png/19-dialogs.png` | `source/Dialogs.dc.html` | 2380x900 | Dialogs — Share (on / off), Export, Trip settings |

diff --git a/docs/design-spec.md b/docs/design-spec.md
@@ -17,6 +17,18 @@ Reference material in `docs/reference/`: `excalidraw-design-draft.png` (Day layo
 - Secondary action: log in. There is no prompt field for AI generation on the landing page; logged-in users generate from the New Trip action in their Trip list.
 - In a guest's workspace the top bar shows a "Log in to save your progress" button (wording to be confirmed) until they log in.
 
+**Landing states.** The page is the same in every state (headline, photos, feature row); only the call to action and the top right change. Screens: 16 (new visitor), 16b, 16c, 16d.
+
+| State | Primary button | Secondary | Top right |
+|---|---|---|---|
+| New visitor (no guest id, not logged in) | Open a sample Trip | none | Log in |
+| Guest with Trips | Continue (opens the most recently opened Trip) | Open a sample Trip as a text link; small note that Trips are only saved in this browser | Log in |
+| Logged in | Continue (opens the most recently opened Trip) | Open a sample Trip | Avatar (Account menu) |
+| Logged in, no Trips | Open a sample Trip | none | Avatar (Account menu) |
+
+- If the sample Trip copy already exists, "Open a sample Trip" opens that copy instead of making another (`trips.sampleOf` plus a unique index on `(ownerId, sampleOf)`).
+- The helper text under the button changes with the state: "No login needed. You get an editable copy." for a new visitor; "You get an editable copy in your Trips." when logged in with no Trips. The badge above the headline reads "Free to try · no login needed" for a new visitor, "Welcome back" when there is a Trip to continue, and "Start with a sample" when logged in with no Trips.
+
 ### 2.1a Sign-in and sign-up
 - No prompt before login: entry points go directly to the Auth0 page. The guest save button carries the note about losing data when browser data is cleared.
 - Themed Auth0 hosted page (login and sign-up tabs, email and password only, error state); only branding can be customized.

diff --git a/docs/implementation-plan.md b/docs/implementation-plan.md
@@ -93,7 +93,7 @@ Each step lists what it needs from earlier steps and when it is done.
 
 ### Onboarding, AI and export
 
-- [ ] **22. Sample Trip.** Landing page with only "Open a sample Trip" and log in, an editable copy for a guest, and a "Log in to save your progress" button. *Needs:* 18.
+- [ ] **22. Sample Trip.** Landing page with four states (see design-spec 2.1): a new visitor gets "Open a sample Trip" and log in; a guest or logged-in user who already has Trips gets "Continue" (opens the most recently opened Trip) with "Open a sample Trip" as a secondary link; a logged-in user with no Trips gets "Open a sample Trip" only; the top right shows the avatar when logged in. Opening the sample reuses an existing copy (`trips.sampleOf` + unique index `(ownerId, sampleOf)`). Also an editable copy for a guest, and a "Log in to save your progress" button. *Needs:* 18.
 - [ ] **23. AI generation.** Prompt (from the New Trip action, logged-in users only) to a new Trip with real places and times, daily limit. *Needs:* 14, 15, 18.
 - [ ] **24. Export.** Document, backup with import, and whole-Trip image. *Needs:* 15.
 
